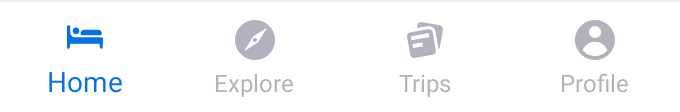
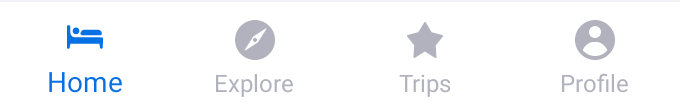
[BPK-3722] Updated the tests.

Changed region(s): [[0.5868, 0.1875, 0.6485, 0.5089]]

diff --git a/app/src/androidTest/java/net/skyscanner/backpack/bottomnav/BpkBottomNavTest.kt b/app/src/androidTest/java/net/skyscanner/backpack/bottomnav/BpkBottomNavTest.kt
@@ -5,7 +5,6 @@ import net.skyscanner.backpack.BpkSnapshotTest
 import net.skyscanner.backpack.createThemedContext
 import net.skyscanner.backpack.demo.R
 import org.junit.Before
-import org.junit.Ignore
 import org.junit.Test
 import org.junit.runner.RunWith
 
@@ -23,18 +22,17 @@ class BpkBottomNavTest : BpkSnapshotTest() {
     snap(BpkBottomNav(testContext).apply {
       addItem(1, R.string.bottom_nav_home, R.drawable.bpk_hotels)
       addItem(2, R.string.bottom_nav_explore, R.drawable.bpk_navigation)
-      addItem(3, R.string.bottom_nav_trips, R.drawable.bpk_trips)
+      addItem(3, R.string.bottom_nav_trips, R.drawable.bpk_star)
       addItem(4, R.string.bottom_nav_profile, R.drawable.bpk_account_circle)
     })
   }
 
   @Test
-  @Ignore("This test works fine on a local machine but fails on the CI with the correct output images")
   fun screenshotTestBottomNav_Themed() {
     snap(BpkBottomNav(createThemedContext(testContext)).apply {
       addItem(1, R.string.bottom_nav_home, R.drawable.bpk_hotels)
       addItem(2, R.string.bottom_nav_explore, R.drawable.bpk_navigation)
-      addItem(3, R.string.bottom_nav_trips, R.drawable.bpk_trips)
+      addItem(3, R.string.bottom_nav_trips, R.drawable.bpk_star)
       addItem(4, R.string.bottom_nav_profile, R.drawable.bpk_account_circle)
     })
   }
